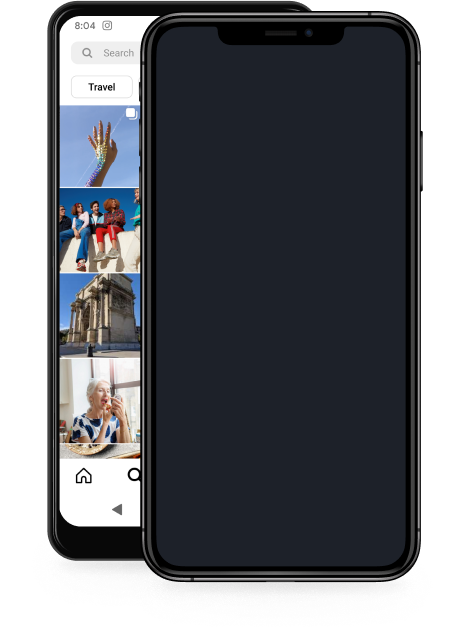
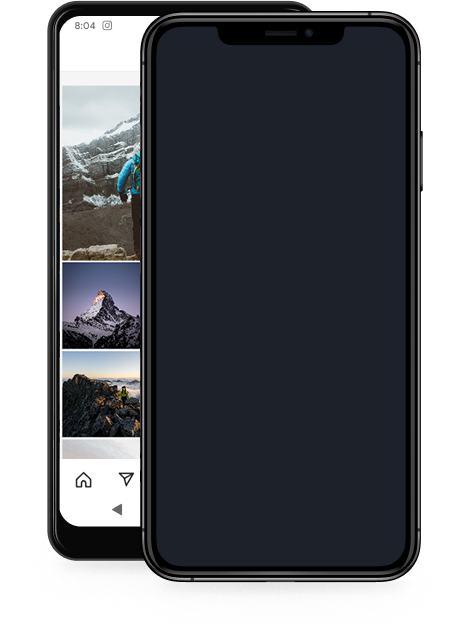
Change login images

Changed region(s): [[0.1204, 0.1197, 0.3011, 0.778], [0.1806, 0.0598, 0.3011, 0.0898]]

diff --git a/client/src/pages/Login.js b/client/src/pages/Login.js
@@ -14,7 +14,7 @@ const Login = () => {
   useEffect(() => {
     const opacityInterval = setInterval(() => {
       setOpacity(prevState => prevState === 0 ? 1 : 0)
-    }, 4000)
+    }, 5000)
     return () => clearInterval(opacityInterval)
   }, [])
 
